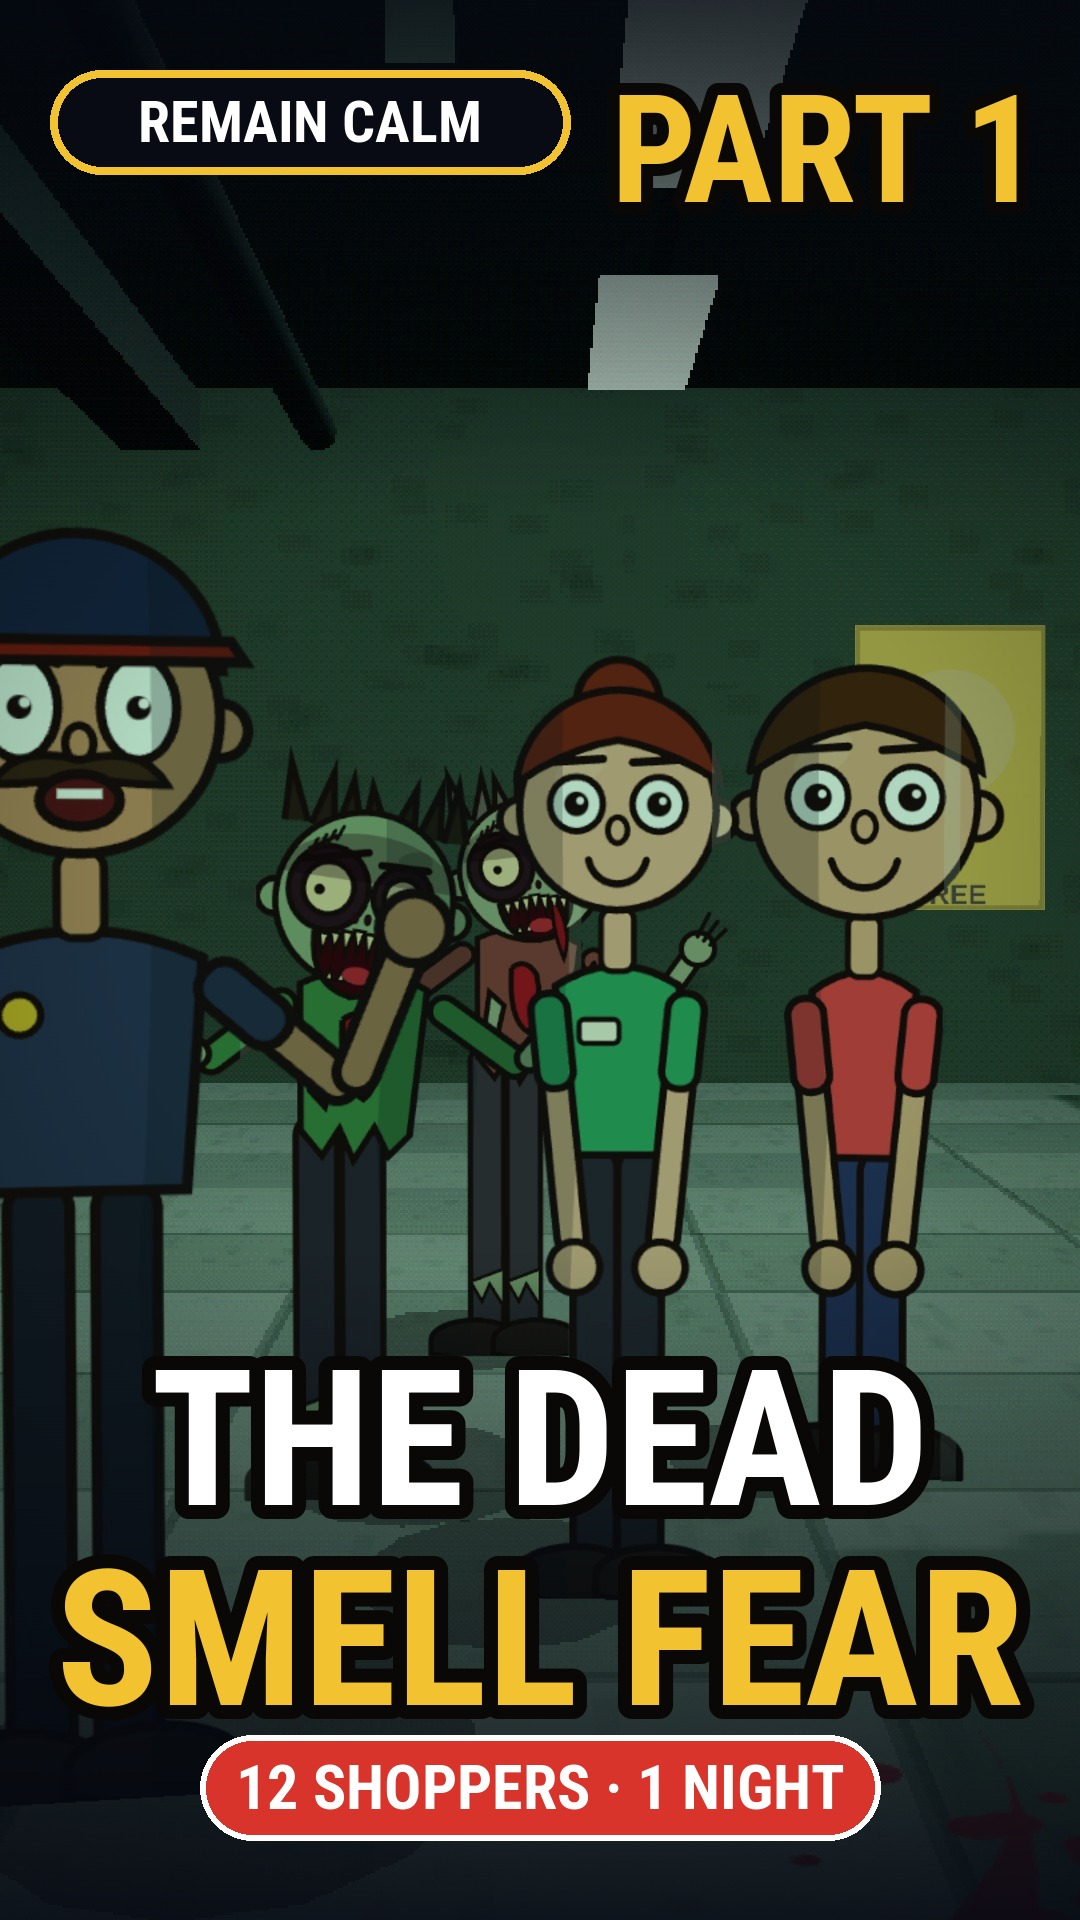
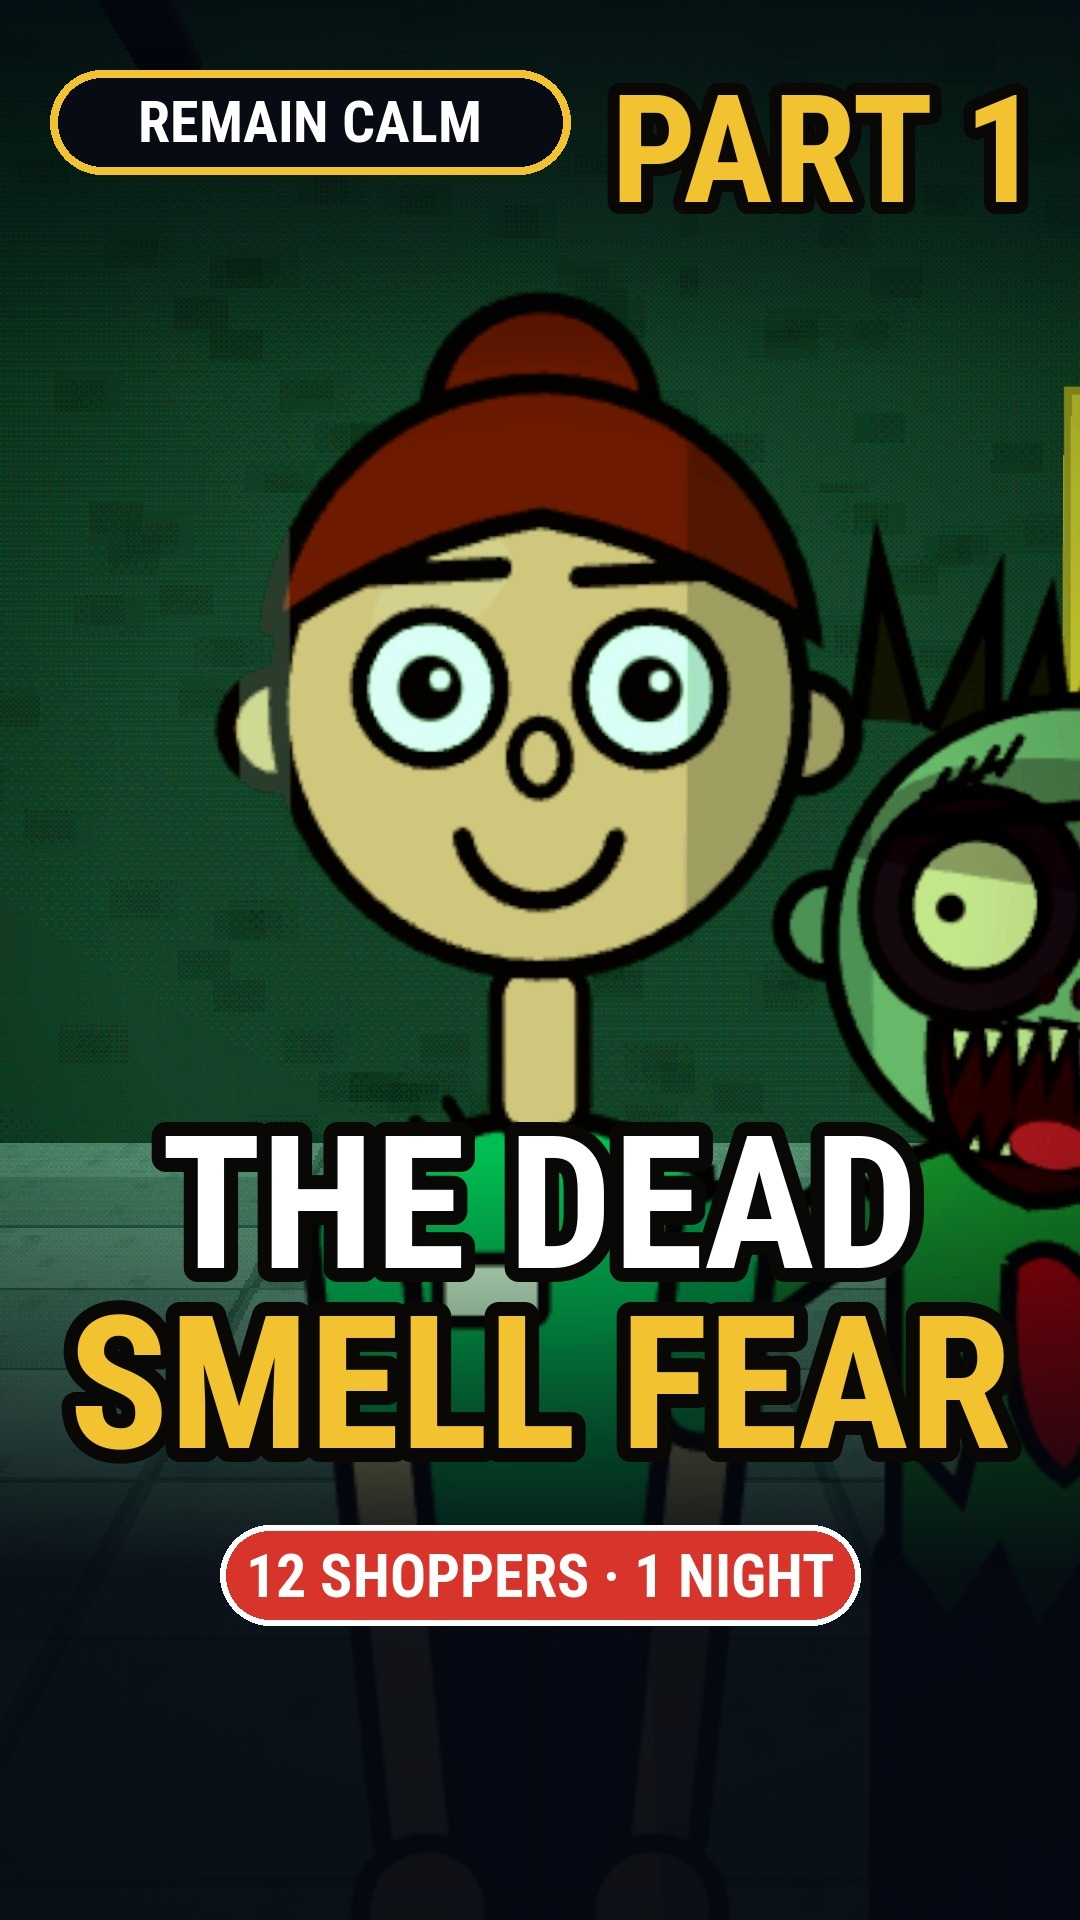
Shorts cover redesign (safe zones, 2 A/B variants, preview sheet) + cover guide
Claude-Session: https://claude.ai/code/session_01AhwUxu1FBH8sDaZQZihRT9

diff --git a/studio/free3d/package_rc.py b/studio/free3d/package_rc.py
@@ -14,25 +14,42 @@ def srt(spec,th=None):
         for L in sh['lines']:
             out.append(f"{i}\n{srt_time(L['t0'])} --> {srt_time(L['t1'])}\n{(th.get(L['en']) or L['en']) if th else L['en']}\n");i+=1
     return '\n'.join(out)
-def render_cover_frame(path):
-    sp=dict(series='REMAIN CALM',title='COVER',part=1,of=3,dur=2,shots=[dict(t0=0,t1=2,cam=[[5.0,1.45,Z],[10.0,1.25,Z],[5.0,1.45,Z],[10.0,1.25,Z]],fov=40,chars=[dict(who='gus',pos=[9.0,Z-.7],expr='scared',act='scared'),dict(who='mimi',pos=[10.1,Z+.15],expr='smile'),dict(who='z1',pos=[10.9,Z-.45],expr='calm'),dict(who='teddy',pos=[11.1,Z+.75],expr='smile'),dict(who='z2',pos=[12.6,Z-.1],expr='calm')],lines=[],place='',grade='calm',noUI=True)])
+def render_cover_frame(path,variant='A'):
+    if variant=='A':   # calm face + the dead right behind her shoulder
+        cam=[[7.5,1.5,Z],[10.2,1.35,Z]];fov=29
+        chars=[dict(who='z2',pos=[11.6,Z+.9],expr='calm'),dict(who='z1',pos=[10.55,Z+.38],expr='calm'),dict(who='mimi',pos=[10.2,Z],expr='smile')]
+    else:              # fear vs calm: Gus screams, Mimi smiles behind him
+        cam=[[7.0,1.5,Z],[10.0,1.35,Z]];fov=30
+        chars=[dict(who='z1',pos=[11.2,Z-.9],expr='calm'),dict(who='mimi',pos=[10.7,Z-.4],expr='smile'),dict(who='gus',pos=[9.6,Z+.15],expr='shock',act='scared')]
+    sp=dict(series='REMAIN CALM',title='COVER',part=1,of=3,dur=2,shots=[dict(t0=0,t1=2,cam=[cam[0],cam[1],cam[0],cam[1]],fov=fov,chars=chars,lines=[],place='',grade='calm',noUI=True)])
     p=R+'/spec_rc_cover.json';json.dump(sp,open(p,'w'));d=R+'/out/rc_cover';os.makedirs(d,exist_ok=True)
     subprocess.check_call(['node',R+'/render_store3.js',p,d,'10','11','1080','1920','&2d'],cwd=R);os.replace(d+'/00010.jpg',path)
 def cover(base):
-    img=Image.open(base).convert('RGB').resize((1080,1920));ov=Image.new('RGBA',(1080,1920),(0,0,0,0));d=ImageDraw.Draw(ov)
-    for y in range(0,520):d.line([(0,y),(1080,y)],fill=(5,8,18,int(190*(1-y/520))))
-    for y in range(1240,1920):d.line([(0,y),(1080,y)],fill=(5,8,18,int(225*((y-1240)/680))))
+    # layout rules (shorts research): faces + words inside the centre square (y 420-1500) and out of the bottom ~300px; <=5 words; big outlined type; high contrast
+    from PIL import ImageEnhance
+    img=Image.open(base).convert('RGB').resize((1080,1920));img=ImageEnhance.Contrast(img).enhance(1.25);img=ImageEnhance.Color(img).enhance(1.25);img=ImageEnhance.Brightness(img).enhance(1.12)
+    ov=Image.new('RGBA',(1080,1920),(0,0,0,0));d=ImageDraw.Draw(ov)
+    for y in range(0,380):d.line([(0,y),(1080,y)],fill=(5,8,18,int(200*(1-y/380))))
+    for y in range(1150,1920):d.line([(0,y),(1080,y)],fill=(5,8,18,int(235*min(1,(y-1150)/420))))
     img=Image.alpha_composite(img.convert('RGBA'),ov).convert('RGB');d=ImageDraw.Draw(img)
-    f_cap=ImageFont.truetype(FONT,58);f_part=ImageFont.truetype(FONT,150);f_big=ImageFont.truetype(FONT,190);f_pill=ImageFont.truetype(FONT,62)
+    f_cap=ImageFont.truetype(FONT,58);f_part=ImageFont.truetype(FONT,150);f_big=ImageFont.truetype(FONT,185);f_pill=ImageFont.truetype(FONT,60)
     d.rounded_rectangle((50,70,50+520,70+104),radius=52,fill=(8,10,20),outline=(242,194,48),width=8);d.text((310,122),'REMAIN CALM',font=f_cap,fill=(255,255,255),anchor='mm')
     outlined(d,(1040,150),'PART 1',f_part,(242,194,48),w=12,anchor='rm')
-    outlined(d,(540,1440),'THE DEAD',f_big,(255,255,255),w=14);outlined(d,(540,1640),'SMELL FEAR',f_big,(242,194,48),w=14)
-    d.rounded_rectangle((200,1735,880,1840),radius=52,fill=(216,52,44),outline=(255,255,255),width=6);d.text((540,1788),'12 SHOPPERS · 1 NIGHT',font=f_pill,fill=(255,255,255),anchor='mm')
+    outlined(d,(540,1205),'THE DEAD',f_big,(255,255,255),w=14);outlined(d,(540,1385),'SMELL FEAR',f_big,(242,194,48),w=14)
+    d.rounded_rectangle((220,1525,860,1625),radius=50,fill=(216,52,44),outline=(255,255,255),width=6);d.text((540,1576),'12 SHOPPERS · 1 NIGHT',font=f_pill,fill=(255,255,255),anchor='mm')
     return img
+def preview(img,path):
+    sq=img.crop((0,420,1080,1500)).resize((480,480));full=img.resize((270,480));small=img.resize((135,240));strip=img.crop((337,0,743,1920)).resize((203,960)).resize((135,640))
+    sh=Image.new('RGB',(270+480+135+135+50,640),(30,30,30));x=10
+    for im in(full,sq,small,strip):sh.paste(im,(x,10));x+=im.size[0]+10
+    sh.save(path,quality=90)
 def main():
     ep=json.load(open(R+'/out/rc1.spec.json'));th=json.load(open(R+'/thai_rc1.json'));frames=R+'/out/rc1_frames'
     rel='releases/remaincalm/rc1';od=f'{REPO}/{rel}';os.makedirs(od,exist_ok=True)
-    base=R+'/out/rc_cover_base.jpg';render_cover_frame(base);img=cover(base);img.save(f'{od}/cover_9x16.jpg',quality=92)
+    var=sys.argv[1] if len(sys.argv)>1 else 'A'
+    for v in('A','B'):
+        b=R+f'/out/rc_cover_base_{v}.jpg';render_cover_frame(b,v);im=cover(b);im.save(f'{od}/cover_9x16_{v}.jpg',quality=92);preview(im,f'{od}/cover_preview_{v}.jpg')
+    img=Image.open(f'{od}/cover_9x16_{var}.jpg');img.save(f'{od}/cover_9x16.jpg',quality=92)
     for i in range(4):img.save(f'{frames}/{i:05d}.jpg',quality=93)
     open(f'{od}/captions_en.srt','w').write(srt(ep));open(f'{od}/captions_th.srt','w').write(srt(ep,th))
     meta=dict(id='rc1',title='REMAIN CALM Part 1: The Dead Smell Fear | What if zombies could smell fear?',hook='What if the dead could smell fear?',

diff --git a/studio/free3d/COVER_GUIDE.md b/studio/free3d/COVER_GUIDE.md
@@ -1,0 +1,14 @@
+# SHORTS COVER GUIDE (researched; sources are third-party blogs, not YouTube docs — check the Shorts help page before relying on exact numbers)
+Sources: piktochart.com/blog/youtube-shorts-dimensions · growthos.in/blog/youtube-shorts-thumbnails-size · instasize.com/size-guides/youtube/shorts-thumbnail · timeskip.io/blog/youtube-shorts-thumbnail-size · creatorr.pages.dev (Shorts thumbnail strategy) · entreresource.com/youtube-thumbnail-best-practices · thumbfa.st (psychology of clickable thumbnails) · tubecore.xpanddigital.io (thumbnails & CTR)
+
+## Facts (agreed by most sources)
+- 1080×1920 (9:16), JPG/PNG, <2 MB. A 16:9 upload is centre-cropped to ~405/720 width, so keep subjects central.
+- Some feeds/grids crop to a ~1:1 centre square → keep face + hook words inside y 420–1500 (1080 px square).
+- Keep the bottom ~300 px empty (channel name, caption, buttons) and don't rely on edges.
+- ≤5 words, bold sans, thick outline, high contrast; test at phone-thumbnail size.
+- Expressive faces + a curiosity gap (show a question, not the answer); one focal point; avoid clutter.
+- Judge by CTR (A/B), not by taste. Percent lifts quoted online (20–40%) are vendor claims.
+
+## Our template (Last Bus layout, adapted)
+top-left series capsule · top-right PART N (yellow) · 2-line headline (white / yellow) inside the centre square · red pill just under it · bottom 300 px left dark and empty.
+Variant A = calm smiling face with the dead right behind her shoulder (curiosity). Variant B = fear vs calm (Gus screaming, Mimi smiling). Use A first, B as the A/B test.
